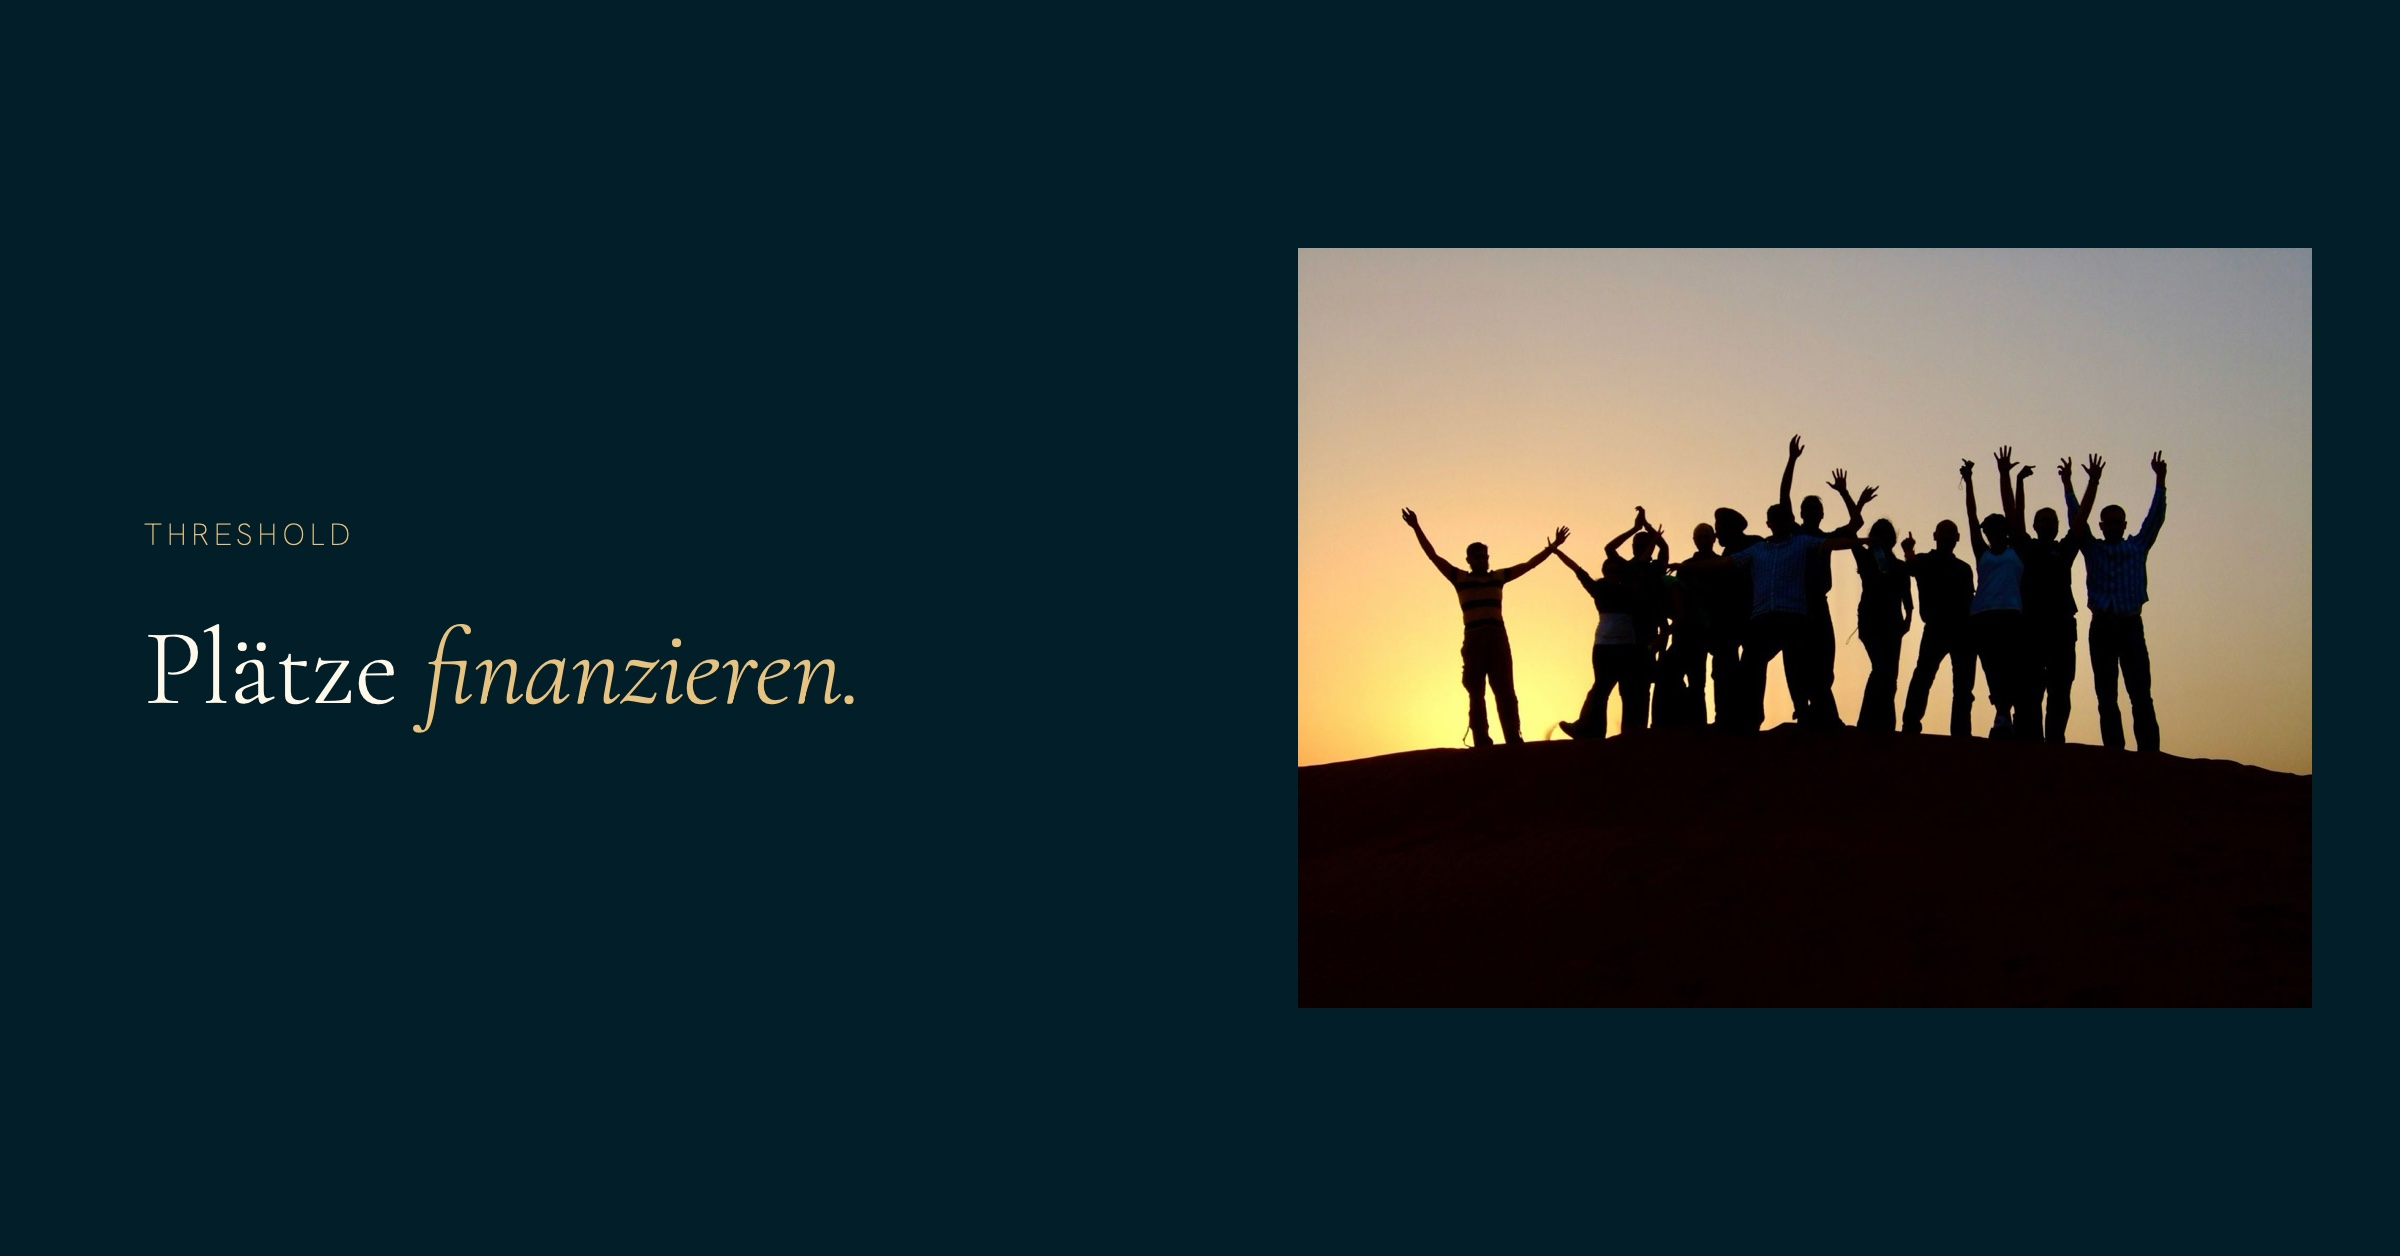
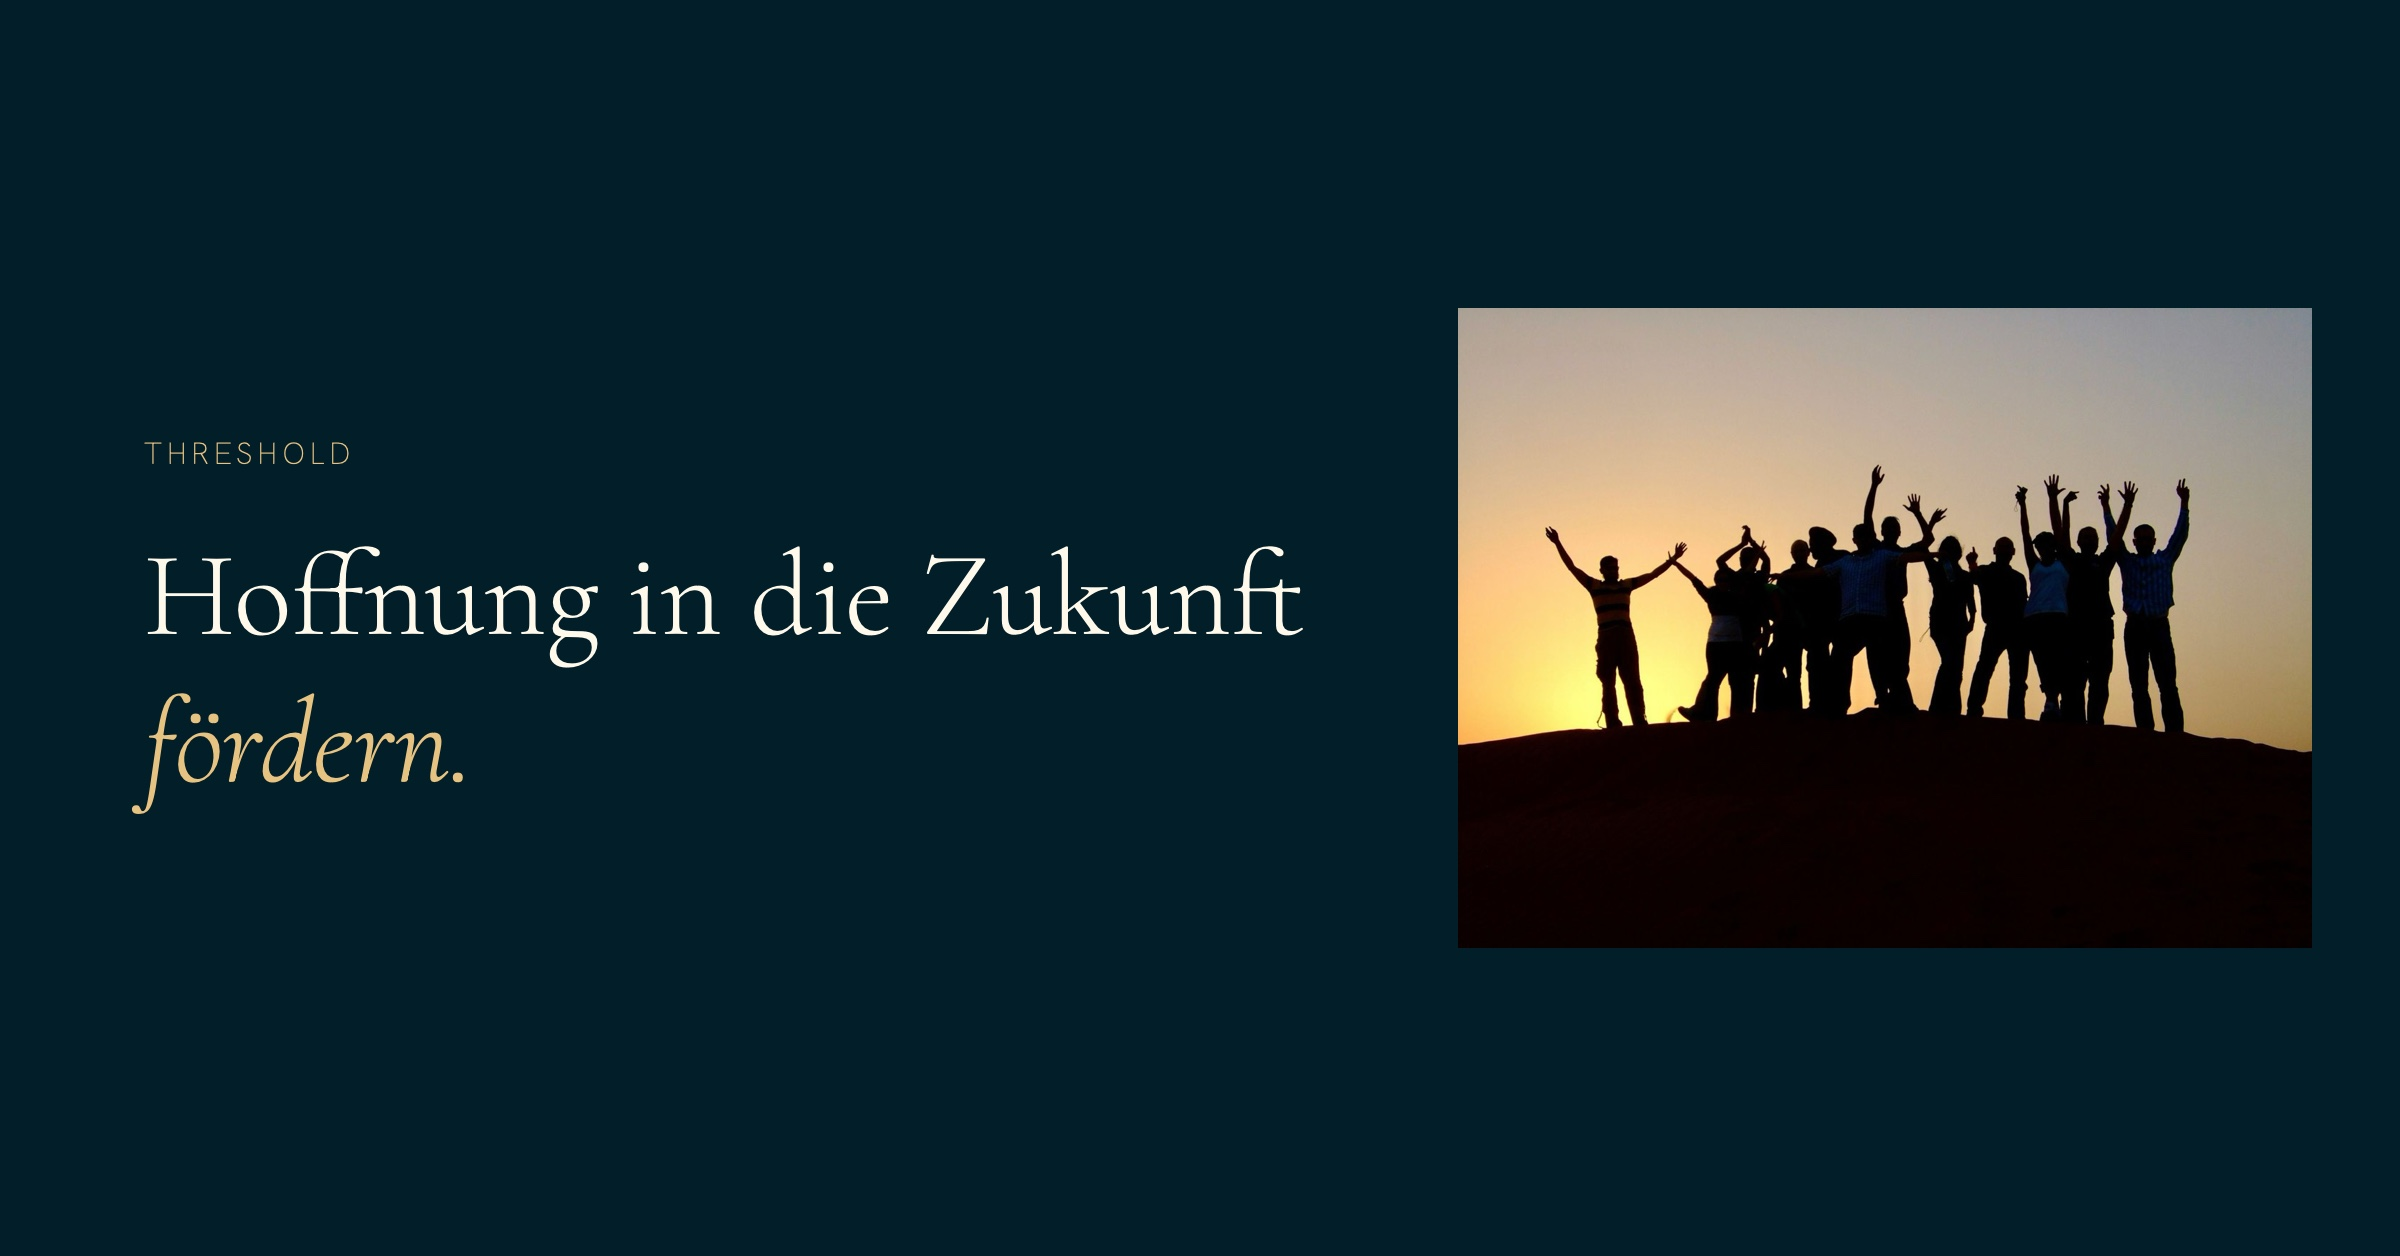
assets: Threshold-Kopfzeile auf 66 Punkt, neuer Wortlaut auf den Partnerkarten
Der erste Anlauf reichte nicht. Die deutsche Threshold-Zeile blieb schwer
lesbar, weil sie zweizeilig ueber die volle Spaltenbreite laeuft, waehrend
die Partnerzeile einzeilig steht. Platz geschaffen: Bildhoehe von 380 auf
320, Textspalte damit von 533 auf 613 Punkt, Kopfzeile von 54 auf 66.

Die Partnerkarten tragen jetzt "Hoffnung in die Zukunft foerdern." statt
"Plaetze finanzieren.", Wortlaut von David. Die englische Fassung
"Fostering hope for the future." ist eine Uebertragung von mir und steht
noch zur Freigabe.

Changed region(s): [[0.0625, 0.1863, 0.9688, 0.8073], [0.0625, 0.3416, 0.125, 0.3726]]

diff --git a/tools/og-karte.swift b/tools/og-karte.swift
@@ -42,7 +42,9 @@ let qurl = URL(fileURLWithPath: QUELLE) as CFURL
 guard let src = CGImageSourceCreateWithURL(qurl, nil),
       let bild = CGImageSourceCreateImageAtIndex(src, 0, nil) else { fatalError("Bild") }
 let SEITEN = CGFloat(bild.width) / CGFloat(bild.height)
-let BILD_H: CGFloat = (VARIANTE.hasPrefix("T") || VARIANTE.hasPrefix("P")) ? 380 : 540
+// Threshold traegt den laengsten Satz und bekommt deshalb die schmalste
+// Bildspalte, damit die Kopfzeile gross gesetzt werden kann.
+let BILD_H: CGFloat = (VARIANTE.hasPrefix("T") || VARIANTE.hasPrefix("P")) ? 320 : 540
 let BILD_B: CGFloat = (BILD_H * SEITEN).rounded()
 let BILD_X: CGFloat = B - RAND - BILD_B
 let BILD_Y: CGFloat = ((H - BILD_H) / 2).rounded()
@@ -141,16 +143,17 @@ case "T1":
   let kopf2 = SPRACHE == "en" ? "what comes next." : "was als Nächstes kommt."
   bloecke = [
     (absatz([Stueck(text: "THRESHOLD", font: hanM(15), color: GOLD, tracking: 2.6)], zeilenhoehe: 1.0), 26),
-    (absatz([Stueck(text: kopf1, font: cor(54), color: SAND, tracking: 0),
-             Stueck(text: kopf2, font: corI(54), color: GOLD, tracking: 0)], zeilenhoehe: 1.22), 0)]
+    (absatz([Stueck(text: kopf1, font: cor(66), color: SAND, tracking: 0),
+             Stueck(text: kopf2, font: corI(66), color: GOLD, tracking: 0)], zeilenhoehe: 1.22), 0)]
 case "P1":
-  // Partnerseiten. Wortlaut ist der Seitentitel, nichts hinzuerfunden.
-  let p1 = SPRACHE == "en" ? "Fund " : "Plätze "
-  let p2 = SPRACHE == "en" ? "a place." : "finanzieren."
+  // Partnerseiten. Deutscher Wortlaut von David, 04.09.2026.
+  // Die englische Fassung ist eine Uebertragung und noch nicht freigegeben.
+  let p1 = SPRACHE == "en" ? "Fostering hope\n" : "Hoffnung in die Zukunft\n"
+  let p2 = SPRACHE == "en" ? "for the future." : "fördern."
   bloecke = [
     (absatz([Stueck(text: "THRESHOLD", font: hanM(15), color: GOLD, tracking: 2.6)], zeilenhoehe: 1.0), 26),
-    (absatz([Stueck(text: p1, font: cor(54), color: SAND, tracking: 0),
-             Stueck(text: p2, font: corI(54), color: GOLD, tracking: 0)], zeilenhoehe: 1.22), 0)]
+    (absatz([Stueck(text: p1, font: cor(60), color: SAND, tracking: 0),
+             Stueck(text: p2, font: corI(60), color: GOLD, tracking: 0)], zeilenhoehe: 1.22), 0)]
 case "T2":
   bloecke = []
 case "B":

diff --git a/threshold/partner/index.html b/threshold/partner/index.html
@@ -17,7 +17,7 @@
 <meta property="og:image" content="https://davidliebnau.com/assets/og-partner-de.jpg" />
 <meta property="og:image:width" content="2400" />
 <meta property="og:image:height" content="1256" />
-<meta property="og:image:alt" content="Auf dunkelblauem Grund die Zeile: Plätze finanzieren. Daneben eine Gruppe junger Menschen als Silhouette im Sonnenuntergang, die Arme erhoben." />
+<meta property="og:image:alt" content="Auf dunkelblauem Grund die Zeile: Hoffnung in die Zukunft fördern. Daneben eine Gruppe junger Menschen als Silhouette im Sonnenuntergang, die Arme erhoben." />
 <meta property="og:locale" content="de_DE" />
 <meta name="twitter:card" content="summary_large_image" />
 <meta name="twitter:image" content="https://davidliebnau.com/assets/og-partner-de.jpg" />

diff --git a/threshold/partner/en/index.html b/threshold/partner/en/index.html
@@ -17,7 +17,7 @@
 <meta property="og:image" content="https://davidliebnau.com/assets/og-partner-en.jpg" />
 <meta property="og:image:width" content="2400" />
 <meta property="og:image:height" content="1256" />
-<meta property="og:image:alt" content="On a dark blue background the line: Fund a place. Alongside it a group of young people silhouetted at sunset, arms raised." />
+<meta property="og:image:alt" content="On a dark blue background the line: Fostering hope for the future. Alongside it a group of young people silhouetted at sunset, arms raised." />
 <meta property="og:locale" content="en_GB" />
 <meta name="twitter:card" content="summary_large_image" />
 <meta name="twitter:image" content="https://davidliebnau.com/assets/og-partner-en.jpg" />

diff --git a/BACKLOG.md b/BACKLOG.md
@@ -106,10 +106,14 @@ lesen ist. Ursache war nicht die Auflösung, sondern der Satz: die deutsche
 Kopfzeile ist mit 40 Zeichen länger als die englische mit 34, davon standen
 58 Prozent in der goldenen Kursive gegen 47 Prozent auf Englisch, und der
 automatische Umbruch trennte mitten in der Wortgruppe („was als / Nächstes").
-Geändert: Kopfzeile von 46 auf 54 Punkt, Umbruch von Hand hinter das Komma,
-sodass die Goldkursive eine eigene Zeile bekommt, Bildhöhe von 440 auf 380,
-damit die Textspalte von 453 auf 533 Punkt wächst. Der Renderer meldet jetzt
-Zeilenzahl und breiteste Zeile, damit ein ungewollter Umbruch auffällt.
+Geändert in zwei Schritten, weil der erste noch nicht reichte: Umbruch von
+Hand hinter das Komma, sodass die Goldkursive eine eigene Zeile bekommt, und
+Bildhöhe von 440 über 380 auf **320**, damit die Textspalte von 453 auf **613
+Punkt** wächst. Erst dadurch ließ sich die Kopfzeile von 46 auf **66 Punkt**
+setzen. Die längere deutsche Zeile misst damit 578 von 613 Punkten.
+
+Der Renderer meldet beim Bauen Zeilenzahl und breiteste Zeile, damit ein
+ungewollter Umbruch auffällt, bevor die Karte live geht.
 
 Zum Farbwert, weil er beim Prüfen mit anfiel: Luminous Sand auf Midnight Blue
 steht bei 17,27:1, Soft Gold bei 9,74:1. Beide weit über der Anforderung, die
@@ -117,7 +121,10 @@ Goldkursive ist also nicht das Problem gewesen.
 
 **Die Partnerseiten sind am selben Tag nachgezogen**, ebenfalls gebaute Karten
 in doppelter Auflösung: `assets/og-partner-de.jpg` und `-en.jpg`, gebaut aus
-`assets/threshold-teaser.jpg`. Der frühere Zuschnitt
+`assets/threshold-teaser.jpg`, Kopfzeile 60 Punkt. Der deutsche Wortlaut
+„Hoffnung in die Zukunft fördern." stammt von David. Die englische Fassung
+„Fostering hope for the future." ist eine Übertragung und noch nicht
+freigegeben. Der frühere Zuschnitt
 `assets/og-image-threshold-partner.jpg` ist entfallen.
 
 **Nicht umgestellt** ist allein `assets/og-image.jpg` auf beiden Startseiten
